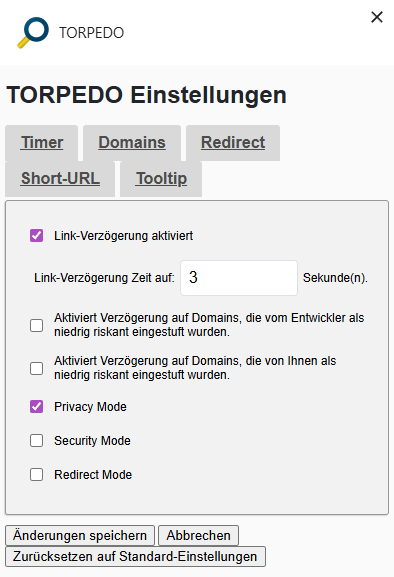
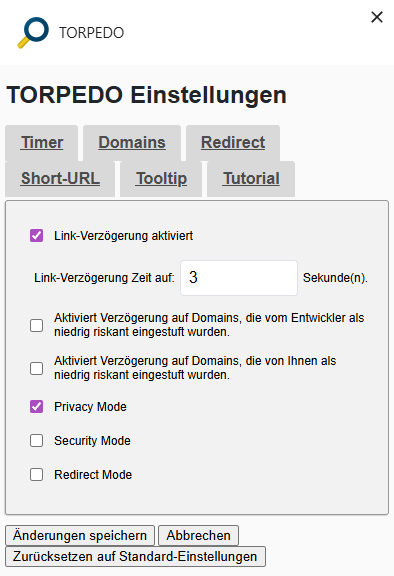
add oneliner above the tutorial button in the options; change png to the newest version; breakdown the warning grey case into two pages

diff --git a/src/shared/js/tutorial.js b/src/shared/js/tutorial.js
@@ -1,15 +1,16 @@
 // Page registry
 const pages = [
-    "welcome",                  // 0
-    "explanation",              // 1
-    "tooltip",                  // 2
-    "green-case",               // 3
-    "green-case-showcase",      // 4
-    "grey-case",                // 5
-    "grey-case-two",            // 6
-    "grey-case-showcase",       // 7
-    "warning-grey-case",        // 8
-    "configuration"             // 9
+    "welcome",                      // 0
+    "explanation",                  // 1
+    "tooltip",                      // 2
+    "green-case",                   // 3
+    "green-case-showcase",          // 4
+    "grey-case",                    // 5
+    "grey-case-two",                // 6
+    "grey-case-showcase",           // 7
+    "warning-grey-case",            // 8
+    "warning-grey-case-showcase",   // 9
+    "configuration"                 // 10
 ];
 
 const LAST_PAGE = pages.length - 1;
@@ -155,6 +156,7 @@ function init() {
     setInnerHTML("configuration-showcase-two-txt-3", "configuration_showcase_two_txt_3");
     setInnerHTML("configuration-showcase-two-txt-4", "configuration_showcase_two_txt_4");
     setInnerHTML("configuration-showcase-two-txt-5", "configuration_showcase_two_txt_5");
+    setInnerHTML("configuration-showcase-two-txt-6", "configuration_showcase_two_txt_6");
     setInnerHTML("configuration-showcase-three-txt", "configuration_showcase_three_txt");
 }
 

diff --git a/src/shared/tutorial.html b/src/shared/tutorial.html
@@ -42,6 +42,7 @@
                     <button class="overview-case grey-case-two" data-page-name="grey-case-two" aria-label="Grey case two"></button>
                     <button class="overview-case grey-case-showcase" data-page-name="grey-case-showcase" aria-label="Grey case showcase"></button>
                     <button class="overview-case warning-grey-case" data-page-name="warning-grey-case" aria-label="Warning grey case"></button>
+                    <button class="overview-case warning-grey-case-showcase" data-page-name="warning-grey-case-showcase" aria-label="Warning grey case showcase"></button>
 
                     <button class="overview-case configuration" data-page-name="configuration" aria-label="Configuration">
                         <i class="fas fa-cog" aria-hidden="true"></i>
@@ -153,14 +154,14 @@
                 </div>
 
                 <!-- Page 9: Warning Grey case -->
-                <div class="warning-grey-case off">
-                    <div class="card">
-                        <h2 id="warning-grey-case-title"></h2>
-                        <p id="warning-grey-case-txt"></p>
-                        <p id="warning-grey-case-txt-2"></p>
-                    </div>
+                <div class="warning-grey-case card off">
+                    <h2 id="warning-grey-case-title"></h2>
+                    <p id="warning-grey-case-txt"></p>
+                    <p id="warning-grey-case-txt-2"></p>
+                </div>
 
-
+                <!-- Page 10: Warning Grey case showcases -->
+                <div class="warning-grey-case-showcase off">
                     <div class="showcase-block txt-with-showcase">
                         <div class="card showcase-text">
                             <h2 id="warning-grey-case-showcase-one-title"></h2>
@@ -219,6 +220,7 @@
                             <p id="configuration-showcase-two-txt-3"></p>
                             <p id="configuration-showcase-two-txt-4"></p>
                             <p id="configuration-showcase-two-txt-5"></p>
+                            <p id="configuration-showcase-two-txt-6"></p>
                         </div>
 
                         <div class="card show-case-card">

diff --git a/src/shared/css/tutorial/tutorial.css b/src/shared/css/tutorial/tutorial.css
@@ -156,7 +156,8 @@ header {
     background-image: radial-gradient(circle at 35% 35%, var(--color-grey), var(--color-grey-dark));
 }
 
-.overview .warning-grey-case {
+.overview .warning-grey-case,
+.overview .warning-grey-case-showcase {
     background-image: url("../../img/warning2.png"), radial-gradient(circle at 35% 35%, var(--color-grey), var(--color-grey-dark));
     background-size: 50%, 100%;
     background-position: 50% 50%;

diff --git a/src/browser/shared/js/options.js b/src/browser/shared/js/options.js
@@ -622,6 +622,7 @@ const OptionsPage = {
             "tooltipCheckboxText-info": "tooltipCheckboxText_info",
             "tooltipCheckboxText-timer": "tooltipCheckboxText_timer",
             // Tutorial tab
+            "tutorialText": "tutorial_text",
             "openTutorial": "open_tutorial_text"
         }
 

diff --git a/src/shared/options.html b/src/shared/options.html
@@ -204,6 +204,7 @@
         </div>
 
         <div id="tab6" class="tab">
+            <p id="tutorialText"></p>
             <button id="openTutorial" class="button"></button>
         </div>
     </div>

diff --git a/src/thunderbird/js/options.js b/src/thunderbird/js/options.js
@@ -622,6 +622,7 @@ const OptionsPage = {
             "tooltipCheckboxText-info": "tooltipCheckboxText_info",
             "tooltipCheckboxText-timer": "tooltipCheckboxText_timer",
             // Tutorial tab
+            "tutorialText": "tutorial_text",
             "openTutorial": "open_tutorial_text"
         }
 